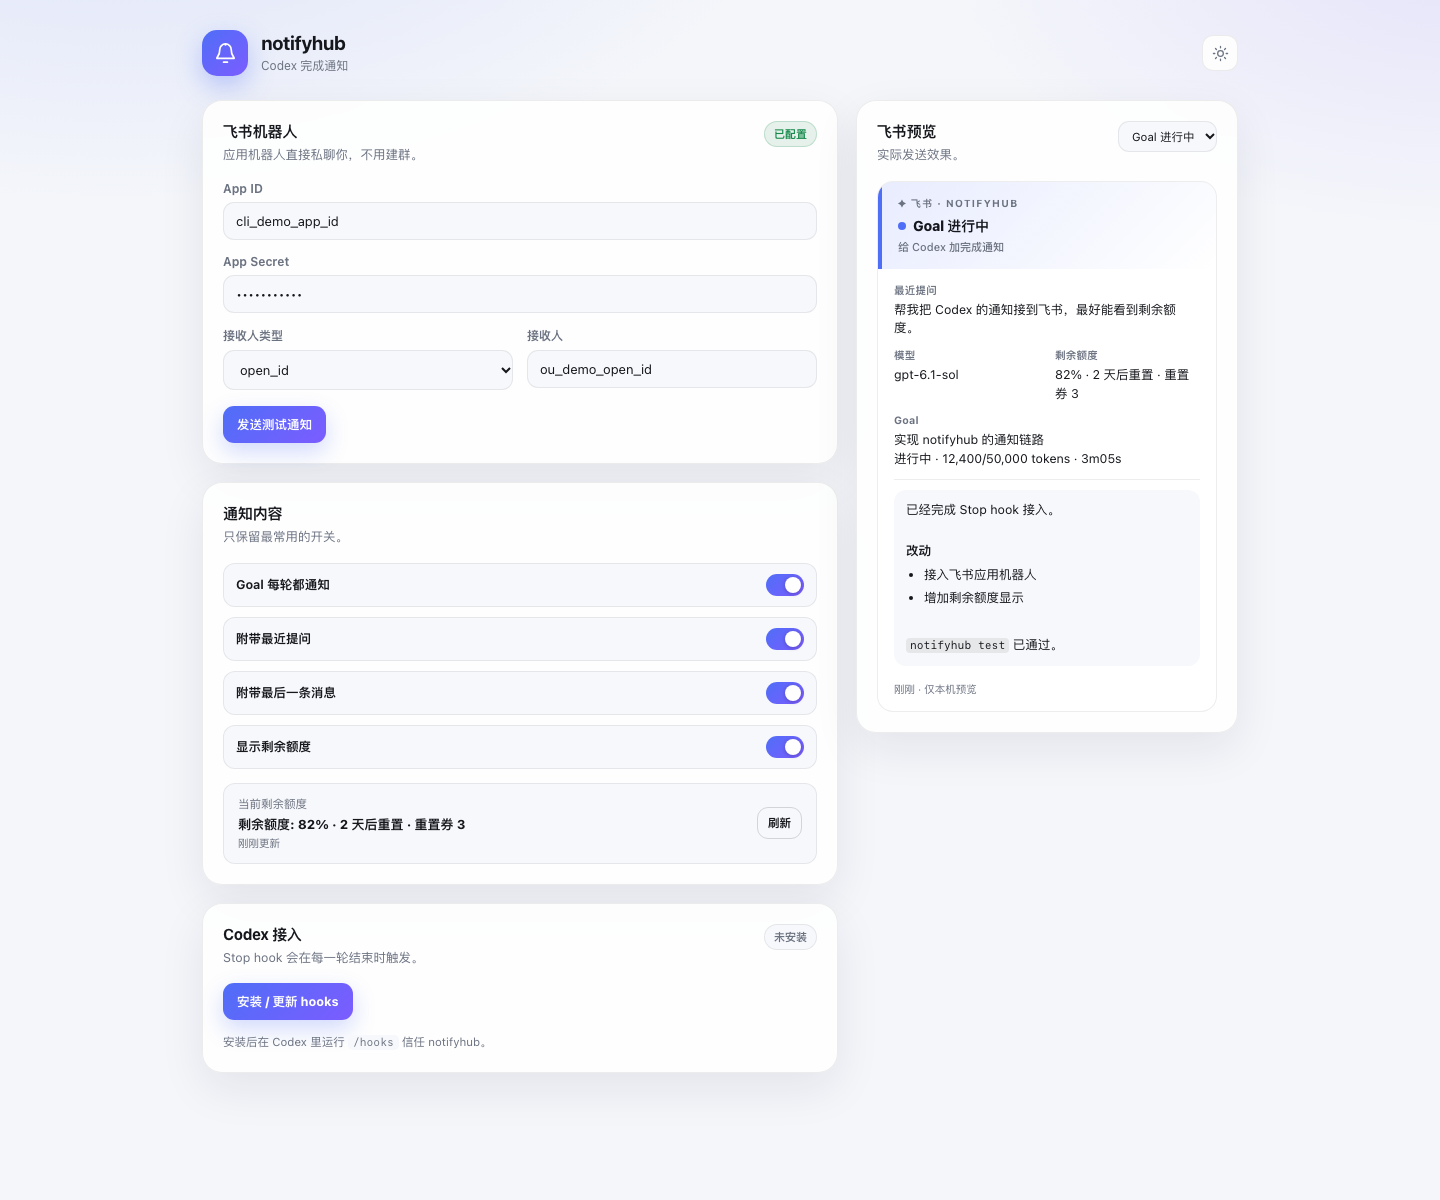
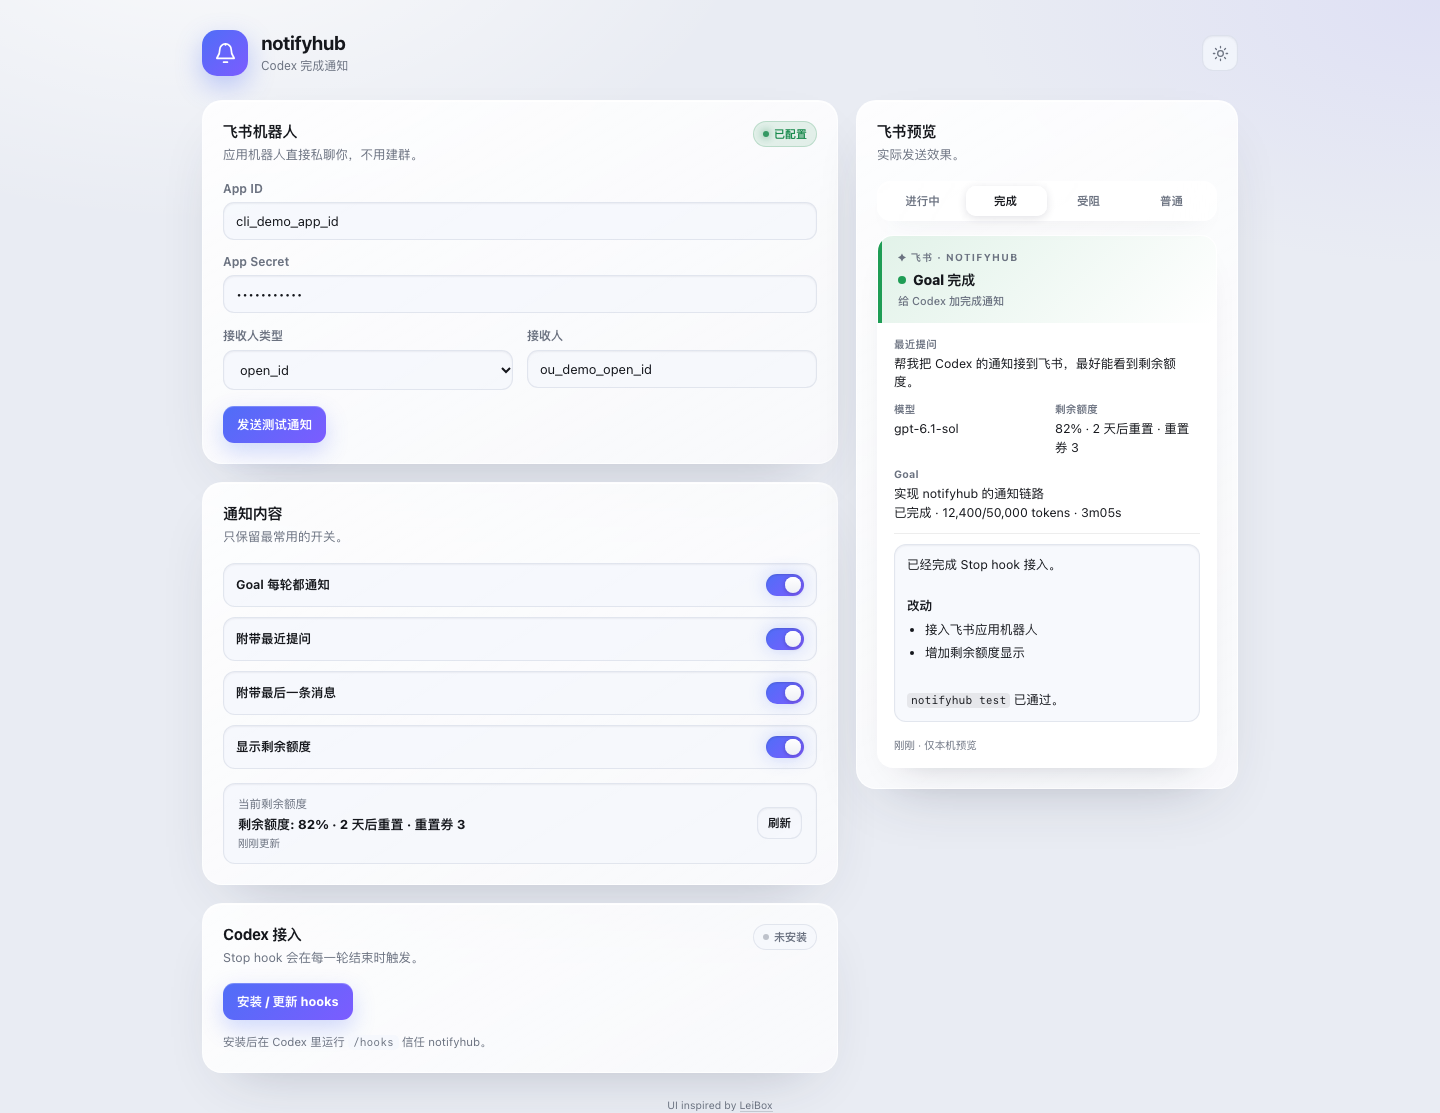
Update notifyhub GUI with glass surfaces
Add a LeiBox-inspired glass visual refresh and a compact glass segmented control for preview states.

diff --git a/scripts/notifyhub/gui_assets/index.html b/scripts/notifyhub/gui_assets/index.html
@@ -7,9 +7,13 @@
 <style>
   :root {
     color-scheme: light;
-    --bg: #f4f6fa;
+    --bg: #e9ecf3;
     --card: rgba(255, 255, 255, .88);
     --card-solid: #ffffff;
+    --card-grad: linear-gradient(150deg, rgba(255, 255, 255, .9), rgba(255, 255, 255, .7));
+    --card-border: rgba(255, 255, 255, .75);
+    --card-inset: inset 0 1px 0 rgba(255, 255, 255, .92);
+    --card-shadow: 0 24px 60px -32px rgba(40, 45, 70, .3);
     --text: #15171c;
     --muted: #6b7280;
     --line: rgba(21, 23, 28, .08);
@@ -20,33 +24,68 @@
     --warn: #b57314;
     --danger: #c62f3a;
     --input: #f7f8fb;
+    --input-bg: rgba(245, 247, 252, .78);
+    --input-border: rgba(120, 130, 160, .16);
+    --input-inset: inset 0 1px 2px rgba(30, 35, 60, .06);
+    --glass-bg: rgba(255, 255, 255, .38);
+    --glass-thumb: rgba(255, 255, 255, .94);
+    --glass-border: rgba(255, 255, 255, .7);
+    --glass-inset: inset 0 1px 0 rgba(255, 255, 255, .8);
+    --blob: rgba(255, 255, 255, .8);
+    --blob-2: rgba(150, 140, 255, .12);
     --shadow: 0 16px 46px rgba(24, 30, 50, .08);
     --radius: 20px;
   }
   @media (prefers-color-scheme: dark) {
     :root:not([data-theme="light"]) {
       color-scheme: dark;
-      --bg: #0c0e13;
+      --bg: #0b0d12;
       --card: rgba(23, 26, 34, .86);
       --card-solid: #171a22;
+      --card-grad: linear-gradient(150deg, rgba(28, 32, 42, .9), rgba(20, 23, 31, .72));
+      --card-border: rgba(255, 255, 255, .08);
+      --card-inset: inset 0 1px 0 rgba(255, 255, 255, .05);
+      --card-shadow: 0 24px 60px -32px rgba(0, 0, 0, .6);
       --text: #eef1f7;
       --muted: #9aa3b2;
       --line: rgba(238, 241, 247, .08);
       --line-strong: rgba(238, 241, 247, .16);
       --input: #10131a;
+      --input-bg: rgba(255, 255, 255, .04);
+      --input-border: rgba(255, 255, 255, .09);
+      --input-inset: inset 0 1px 2px rgba(0, 0, 0, .35);
+      --glass-bg: rgba(255, 255, 255, .05);
+      --glass-thumb: rgba(255, 255, 255, .16);
+      --glass-border: rgba(255, 255, 255, .08);
+      --glass-inset: inset 0 1px 0 rgba(255, 255, 255, .06);
+      --blob: rgba(120, 125, 160, .10);
+      --blob-2: rgba(120, 100, 255, .08);
       --shadow: 0 18px 50px rgba(0, 0, 0, .38);
     }
   }
   [data-theme="dark"] {
     color-scheme: dark;
-    --bg: #0c0e13;
+    --bg: #0b0d12;
     --card: rgba(23, 26, 34, .86);
     --card-solid: #171a22;
+    --card-grad: linear-gradient(150deg, rgba(28, 32, 42, .9), rgba(20, 23, 31, .72));
+    --card-border: rgba(255, 255, 255, .08);
+    --card-inset: inset 0 1px 0 rgba(255, 255, 255, .05);
+    --card-shadow: 0 24px 60px -32px rgba(0, 0, 0, .6);
     --text: #eef1f7;
     --muted: #9aa3b2;
     --line: rgba(238, 241, 247, .08);
     --line-strong: rgba(238, 241, 247, .16);
     --input: #10131a;
+    --input-bg: rgba(255, 255, 255, .04);
+    --input-border: rgba(255, 255, 255, .09);
+    --input-inset: inset 0 1px 2px rgba(0, 0, 0, .35);
+    --glass-bg: rgba(255, 255, 255, .05);
+    --glass-thumb: rgba(255, 255, 255, .16);
+    --glass-border: rgba(255, 255, 255, .08);
+    --glass-inset: inset 0 1px 0 rgba(255, 255, 255, .06);
+    --blob: rgba(120, 125, 160, .10);
+    --blob-2: rgba(120, 100, 255, .08);
     --shadow: 0 18px 50px rgba(0, 0, 0, .38);
   }
   * { box-sizing: border-box; }
@@ -54,8 +93,8 @@
     margin: 0;
     min-height: 100vh;
     background:
-      radial-gradient(1100px 560px at 8% -12%, rgba(79, 110, 247, .14), transparent 62%),
-      radial-gradient(900px 480px at 102% -4%, rgba(124, 92, 255, .12), transparent 58%),
+      radial-gradient(900px 520px at 14% -8%, var(--blob), transparent 62%),
+      radial-gradient(820px 460px at 100% 0%, var(--blob-2), transparent 58%),
       var(--bg);
     color: var(--text);
     font-family: -apple-system, BlinkMacSystemFont, "SF Pro Text", "PingFang SC", "Hiragino Sans GB", "Microsoft YaHei", sans-serif;
@@ -76,15 +115,16 @@
   .brand p { margin: 3px 0 0; color: var(--muted); font-size: 12px; }
   .top-actions { display: flex; align-items: center; gap: 9px; }
   .icon-btn {
-    width: 36px; height: 36px; border-radius: 11px; border: 1px solid var(--line);
-    background: var(--card); color: var(--muted); cursor: pointer; display: grid; place-items: center;
-    transition: .15s ease;
+    width: 36px; height: 36px; border-radius: 11px; border: 1px solid var(--input-border);
+    background: var(--input-bg); color: var(--muted); cursor: pointer; display: grid; place-items: center;
+    box-shadow: var(--input-inset); transition: .15s ease;
   }
   .icon-btn:hover { color: var(--text); border-color: var(--line-strong); transform: translateY(-1px); }
   .grid { display: grid; grid-template-columns: minmax(0, 1fr) 382px; gap: 18px; align-items: start; }
   .card {
-    background: var(--card); border: 1px solid var(--line); border-radius: var(--radius);
-    padding: 20px; box-shadow: var(--shadow); backdrop-filter: blur(14px);
+    background: var(--card-grad); border: 1px solid var(--card-border); border-radius: var(--radius);
+    padding: 20px; box-shadow: var(--card-inset), var(--card-shadow);
+    backdrop-filter: blur(22px) saturate(1.15);
   }
   .card + .card { margin-top: 18px; }
   .card-head { display: flex; justify-content: space-between; align-items: flex-start; gap: 14px; margin-bottom: 16px; }
@@ -92,20 +132,26 @@
   .card-head p { margin: 0; color: var(--muted); font-size: 12.5px; line-height: 1.5; }
   .pill {
     display: inline-flex; align-items: center; gap: 5px; white-space: nowrap;
-    padding: 4px 9px; border-radius: 999px; border: 1px solid var(--line);
-    background: var(--input); color: var(--muted); font-size: 11px; font-weight: 700;
+    padding: 4px 9px; border-radius: 999px; border: 1px solid var(--input-border);
+    background: var(--input-bg); color: var(--muted); font-size: 11px; font-weight: 700;
   }
   .pill-ok { color: var(--ok); background: rgba(23, 138, 76, .11); border-color: rgba(23, 138, 76, .2); }
   .pill-warn { color: var(--warn); background: rgba(181, 115, 20, .12); border-color: rgba(181, 115, 20, .22); }
   .pill-danger { color: var(--danger); background: rgba(198, 47, 58, .1); border-color: rgba(198, 47, 58, .2); }
   .pill-off { color: var(--muted); }
+  .pill-ok::before, .pill-warn::before, .pill-danger::before, .pill-off::before {
+    content: ""; width: 6px; height: 6px; border-radius: 50%; background: currentColor;
+    box-shadow: 0 0 8px currentColor; opacity: .85; flex: 0 0 auto;
+  }
+  .pill-off::before { opacity: .4; box-shadow: none; }
   .field-grid { display: grid; grid-template-columns: 1fr 1fr; gap: 14px; }
   .span-2 { grid-column: 1 / -1; }
   .field { display: flex; flex-direction: column; gap: 6px; min-width: 0; }
   .field > span { color: var(--muted); font-size: 12px; font-weight: 650; }
   input, select {
-    width: 100%; border: 1px solid var(--line); background: var(--input); color: var(--text);
+    width: 100%; border: 1px solid var(--input-border); background: var(--input-bg); color: var(--text);
     border-radius: 11px; padding: 10px 12px; font: inherit; font-size: 13px; outline: none;
+    box-shadow: var(--input-inset);
     transition: border-color .15s ease, box-shadow .15s ease, background .15s ease;
   }
   input::placeholder { color: var(--muted); opacity: .65; }
@@ -115,26 +161,33 @@
   .switch-list { display: flex; flex-direction: column; gap: 10px; }
   .switch-row {
     display: flex; align-items: center; justify-content: space-between; gap: 12px;
-    padding: 10px 12px; border: 1px solid var(--line); border-radius: 12px; background: var(--input);
+    padding: 10px 12px; border: 1px solid var(--input-border); border-radius: 12px;
+    background: var(--input-bg); box-shadow: var(--input-inset);
   }
   .switch-row .label { font-size: 12.5px; font-weight: 650; }
   .switch { position: relative; width: 38px; height: 22px; flex: 0 0 auto; }
   .switch input { position: absolute; inset: 0; opacity: 0; cursor: pointer; margin: 0; }
   .switch i {
-    position: absolute; inset: 0; border-radius: 999px; background: var(--line-strong);
+    position: absolute; inset: 0; border-radius: 999px;
+    background: linear-gradient(180deg, rgba(255, 255, 255, .22), var(--line-strong));
+    box-shadow: inset 0 1px 2px rgba(30, 35, 60, .12);
     transition: .2s ease; pointer-events: none;
   }
   .switch i::after {
     content: ""; position: absolute; width: 16px; height: 16px; left: 3px; top: 3px;
-    border-radius: 50%; background: #fff; box-shadow: 0 1px 4px rgba(0, 0, 0, .24);
+    border-radius: 50%; background: linear-gradient(180deg, #fff, #eef0f5);
+    box-shadow: 0 1px 4px rgba(0, 0, 0, .24), inset 0 1px 0 #fff;
     transition: .2s ease;
   }
-  .switch input:checked + i { background: linear-gradient(135deg, var(--accent), var(--accent-2)); }
+  .switch input:checked + i {
+    background: linear-gradient(135deg, var(--accent), var(--accent-2));
+    box-shadow: inset 0 1px 2px rgba(30, 35, 60, .18), 0 0 18px rgba(79, 110, 247, .28);
+  }
   .switch input:checked + i::after { transform: translateX(16px); }
   .quota-row {
     display: flex; align-items: center; justify-content: space-between; gap: 12px;
-    margin-top: 14px; padding: 12px 14px; border: 1px solid var(--line);
-    border-radius: 12px; background: var(--input);
+    margin-top: 14px; padding: 12px 14px; border: 1px solid var(--input-border);
+    border-radius: 12px; background: var(--input-bg); box-shadow: var(--input-inset);
   }
   .quota-main { display: flex; flex-direction: column; gap: 3px; min-width: 0; }
   .quota-main .muted { color: var(--muted); font-size: 11.5px; }
@@ -144,20 +197,45 @@
   .btn {
     border: 0; border-radius: 11px; padding: 10px 14px; font: inherit; font-size: 12.5px; font-weight: 750;
     color: #fff; background: linear-gradient(135deg, var(--accent), var(--accent-2));
-    box-shadow: 0 9px 22px rgba(79, 110, 247, .25); cursor: pointer; transition: .15s ease;
+    box-shadow: inset 0 1px 0 rgba(255, 255, 255, .22), 0 9px 22px rgba(79, 110, 247, .25);
+    cursor: pointer; transition: .15s ease;
   }
   .btn:hover { transform: translateY(-1px); filter: brightness(1.03); }
   .btn:disabled { opacity: .55; cursor: default; transform: none; }
   .btn-ghost {
-    background: transparent; color: var(--text); border: 1px solid var(--line-strong);
-    box-shadow: none; font-weight: 650;
+    background: var(--input-bg); color: var(--text); border: 1px solid var(--input-border);
+    box-shadow: var(--input-inset); font-weight: 650;
   }
-  .btn-ghost:hover { background: var(--input); }
+  .btn-ghost:hover { background: var(--card-solid); }
   .btn-small { padding: 7px 10px; font-size: 11.5px; }
   .hint { margin-top: 12px; color: var(--muted); font-size: 11.5px; line-height: 1.7; }
-  .hint code { font: 11px ui-monospace, SFMono-Regular, Menlo, monospace; background: var(--input); padding: 1px 5px; border-radius: 5px; }
+  .hint code { font: 11px ui-monospace, SFMono-Regular, Menlo, monospace; background: var(--input-bg); padding: 1px 5px; border-radius: 5px; }
   .empty { padding: 18px; text-align: center; color: var(--muted); font-size: 12px; border: 1px dashed var(--line-strong); border-radius: 12px; }
-  .feishu { border-radius: 16px; overflow: hidden; border: 1px solid var(--line); background: var(--card-solid); }
+  .glass-segments {
+    position: relative; display: flex; gap: 2px; padding: 4px; margin-bottom: 14px;
+    border-radius: 14px; border: 1px solid var(--glass-border);
+    background: var(--glass-bg); box-shadow: var(--glass-inset), 0 10px 24px -18px rgba(40, 45, 70, .35);
+    backdrop-filter: blur(18px) saturate(1.2);
+  }
+  .glass-segments button {
+    position: relative; z-index: 1; flex: 1; border: 0; background: transparent;
+    color: var(--muted); font: inherit; font-size: 11.5px; font-weight: 650;
+    padding: 7px 6px; border-radius: 10px; cursor: pointer; transition: color .2s ease;
+  }
+  .glass-segments button[aria-selected="true"] { color: var(--text); }
+  .glass-segments button:focus-visible { outline: 2px solid rgba(79, 110, 247, .55); outline-offset: 2px; }
+  .glass-thumb {
+    position: absolute; top: 4px; bottom: 4px; left: 0; width: 0;
+    border-radius: 10px; background: var(--glass-thumb);
+    box-shadow: 0 2px 8px rgba(40, 45, 70, .14), var(--glass-inset);
+    transition: transform .42s cubic-bezier(.22, 1.06, .36, 1), width .42s cubic-bezier(.22, 1.06, .36, 1);
+    pointer-events: none;
+  }
+  .feishu {
+    border-radius: 16px; overflow: hidden; border: 1px solid var(--card-border);
+    background: var(--card-solid);
+    box-shadow: var(--card-inset), 0 16px 34px -26px rgba(30, 35, 60, .35);
+  }
   .feishu-head { padding: 14px 16px; border-left: 4px solid var(--accent); background: linear-gradient(135deg, rgba(79, 110, 247, .13), transparent); }
   .feishu-app { color: var(--muted); font-size: 10px; font-weight: 700; letter-spacing: .12em; text-transform: uppercase; margin-bottom: 6px; }
   .feishu-title { font-size: 14px; font-weight: 800; letter-spacing: -.01em; }
@@ -171,7 +249,7 @@
   .feishu-field strong { display: block; color: var(--muted); font-size: 10.5px; font-weight: 700; letter-spacing: .02em; margin-bottom: 2px; }
   .feishu-field > div { color: var(--text); font-size: 12.5px; line-height: 1.5; }
   .feishu-body hr { border: 0; border-top: 1px solid var(--line); margin: 10px 0; }
-  .feishu-msg { margin-top: 10px; padding: 10px 12px; border-radius: 12px; background: var(--input); color: var(--text); font-size: 12.5px; line-height: 1.65; overflow-wrap: anywhere; }
+  .feishu-msg { margin-top: 10px; padding: 10px 12px; border-radius: 12px; background: var(--input-bg); border: 1px solid var(--input-border); box-shadow: var(--input-inset); color: var(--text); font-size: 12.5px; line-height: 1.65; overflow-wrap: anywhere; }
   .feishu-msg .md-heading { font-weight: 800; margin: 6px 0 2px; }
   .feishu-msg ul { margin: 4px 0 6px; padding-left: 18px; }
   .feishu-msg li { margin: 2px 0; }
@@ -185,14 +263,17 @@
   .savebar {
     position: fixed; right: 22px; bottom: 22px;
     display: flex; align-items: center; gap: 16px; padding: 9px 12px 9px 18px;
-    background: var(--card); border: 1px solid var(--line); border-radius: 16px;
-    box-shadow: var(--shadow); backdrop-filter: blur(16px); z-index: 20;
+    background: var(--card-grad); border: 1px solid var(--card-border); border-radius: 16px;
+    box-shadow: var(--card-inset), var(--shadow); backdrop-filter: blur(18px); z-index: 20;
     opacity: 0; transform: translateY(12px); pointer-events: none;
     transition: opacity .2s ease, transform .2s ease;
     max-width: calc(100vw - 44px);
   }
   .savebar.show { opacity: 1; transform: translateY(0); pointer-events: auto; }
   .savebar span { color: var(--warn); font-size: 12px; white-space: nowrap; font-weight: 650; }
+  .footer { margin-top: 26px; text-align: center; color: var(--muted); font-size: 10.5px; }
+  .footer a { color: inherit; text-decoration: none; border-bottom: 1px solid var(--line-strong); }
+  .footer a:hover { color: var(--text); }
   .toast {
     position: fixed; left: 50%; bottom: 92px; transform: translate(-50%, 12px);
     opacity: 0; pointer-events: none; z-index: 30; max-width: min(560px, 90vw);
@@ -325,17 +406,20 @@
             <h2>飞书预览</h2>
             <p>实际发送效果。</p>
           </div>
-          <select id="previewGoal" style="width:auto;padding:7px 9px;font-size:11.5px">
-            <option value="active">Goal 进行中</option>
-            <option value="complete">Goal 完成</option>
-            <option value="blocked">Goal 受阻</option>
-            <option value="none">普通轮次</option>
-          </select>
+        </div>
+        <div class="glass-segments" id="previewGoal" role="tablist" aria-label="预览状态">
+          <span class="glass-thumb" aria-hidden="true"></span>
+          <button type="button" role="tab" data-value="active" aria-selected="true">进行中</button>
+          <button type="button" role="tab" data-value="complete" aria-selected="false">完成</button>
+          <button type="button" role="tab" data-value="blocked" aria-selected="false">受阻</button>
+          <button type="button" role="tab" data-value="none" aria-selected="false">普通</button>
         </div>
         <div id="feishuPreview"></div>
       </div>
     </aside>
   </main>
+
+  <footer class="footer">UI inspired by <a href="https://leibox.pantoria.cn" target="_blank" rel="noreferrer">LeiBox</a></footer>
 
   <div class="savebar" id="savebar">
     <span>有未保存的修改</span>
@@ -351,6 +435,7 @@ const esc = (value) => String(value ?? "").replace(/[&<>"']/g, (char) => ({ "&":
 const clone = (value) => JSON.parse(JSON.stringify(value));
 
 let state = { config: null, dirty: false, toastTimer: null };
+let previewGoalValue = "active";
 
 function toast(message, kind = "ok") {
   const element = $("toast");
@@ -496,12 +581,24 @@ async function loadQuota(refresh = false) {
 
 async function loadPreview() {
   try {
-    const goal = $("previewGoal").value;
+    const goal = previewGoalValue;
     const data = await api(`/api/preview?goal=${encodeURIComponent(goal)}`);
     renderFeishu(data.card);
   } catch (error) {
     $("feishuPreview").innerHTML = `<div class="empty">预览加载失败：${esc(error.message)}</div>`;
   }
+}
+
+function positionGlassThumb() {
+  const bar = $("previewGoal");
+  const thumb = bar?.querySelector(".glass-thumb");
+  const active = bar?.querySelector('[role="tab"][aria-selected="true"]');
+  if (!bar || !thumb || !active) return;
+  const barRect = bar.getBoundingClientRect();
+  const activeRect = active.getBoundingClientRect();
+  if (!activeRect.width) return;
+  thumb.style.width = `${activeRect.width}px`;
+  thumb.style.transform = `translateX(${activeRect.left - barRect.left}px)`;
 }
 
 function markdownInline(text) {
@@ -744,16 +841,34 @@ function bindEvents() {
   $("testBtn").addEventListener("click", sendTest);
   $("installBtn").addEventListener("click", installHooks);
   $("quotaRefresh").addEventListener("click", () => loadQuota(true));
-  $("previewGoal").addEventListener("change", loadPreview);
   $("themeBtn").addEventListener("click", cycleTheme);
   $("receiveType").addEventListener("change", receivePlaceholder);
+
+  const previewTabs = [...document.querySelectorAll("#previewGoal [role=tab]")];
+  const selectPreviewGoal = (tab) => {
+    previewGoalValue = tab.dataset.value || "active";
+    previewTabs.forEach((item) => item.setAttribute("aria-selected", item === tab ? "true" : "false"));
+    positionGlassThumb();
+    loadPreview();
+  };
+  previewTabs.forEach((tab, index) => {
+    tab.addEventListener("click", () => selectPreviewGoal(tab));
+    tab.addEventListener("keydown", (event) => {
+      if (event.key !== "ArrowLeft" && event.key !== "ArrowRight") return;
+      event.preventDefault();
+      const offset = event.key === "ArrowRight" ? 1 : -1;
+      const next = previewTabs[(index + offset + previewTabs.length) % previewTabs.length];
+      next.focus();
+      selectPreviewGoal(next);
+    });
+  });
+  window.addEventListener("resize", positionGlassThumb);
 
   const main = document.querySelector(".app");
   const onEdit = (event) => {
     const target = event.target;
     if (!(target instanceof HTMLElement)) return;
     if (!target.matches("input, select")) return;
-    if (target.id === "previewGoal") return;
     markDirty();
   };
   main.addEventListener("input", onEdit);
@@ -767,10 +882,15 @@ function bindEvents() {
 }
 
 async function boot() {
-  applyTheme(localStorage.getItem("notifyhub-theme") || "auto");
+  const forcedTheme = new URLSearchParams(location.search).get("theme");
+  const theme = ["light", "dark", "auto"].includes(forcedTheme)
+    ? forcedTheme
+    : localStorage.getItem("notifyhub-theme") || "auto";
+  applyTheme(theme);
   bindEvents();
   try {
     await Promise.all([loadConfig(), loadStatus()]);
+    requestAnimationFrame(positionGlassThumb);
     loadPreview();
     loadQuota().then(loadPreview);
   } catch (error) {

diff --git a/README.md b/README.md
@@ -77,6 +77,10 @@ sh scripts/selftest.sh
 python3 scripts/notifyhub.py doctor
 ```
 
+## UI
+
+界面视觉参考 [LeiBox](https://leibox.pantoria.cn) 的玻璃卡片与 Glass Tab Menu 交互；预览状态切换是一个紧凑的玻璃分段控件。没有直接捆绑 LeiBox 的 WebGL/TS 组件，页面保持零依赖。
+
 完整 agent 操作手册见 [SKILL.md](SKILL.md)；飞书应用配置、完整配置项、排障分别在：
 
 - [references/feishu-setup.md](references/feishu-setup.md)
